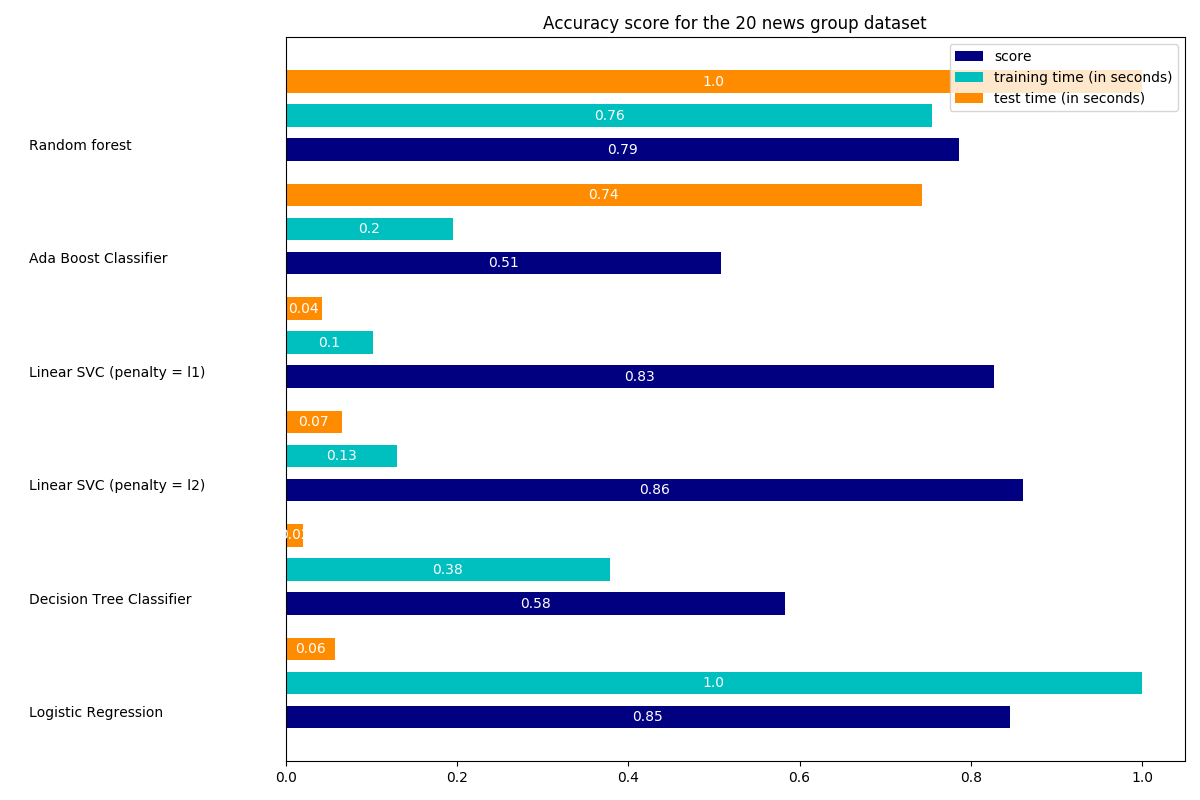
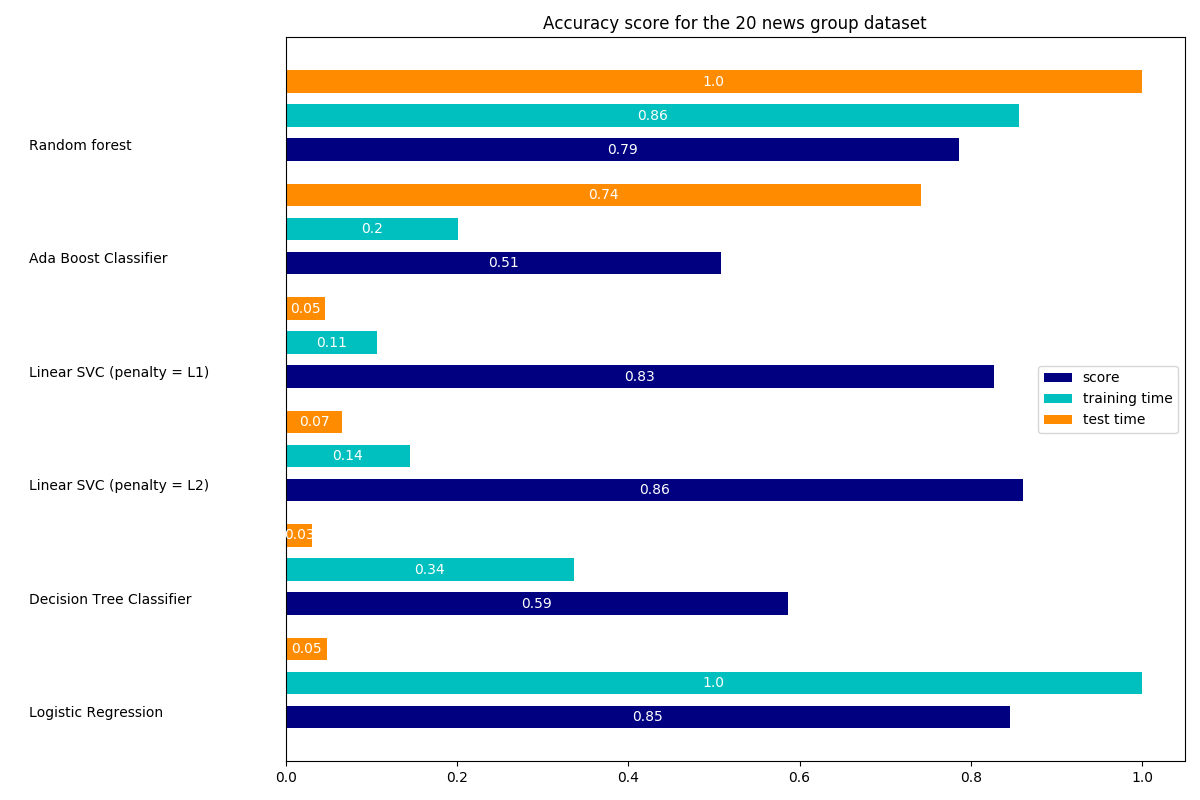
New python args: --just_miniproject_classifiers and --plot_training_and_test_time_together_with_accuracy_score. New plots

diff --git a/code/classification_of_text_documents.py b/code/classification_of_text_documents.py
@@ -73,6 +73,13 @@ op.add_option("--filtered",
               action="store_true",
               help="Remove newsgroup information that is easily overfit: "
                    "headers, signatures, and quoting.")
+op.add_option("--just_miniproject_classifiers",
+              action="store_true", dest="just_miniproject_classifiers",
+              help="Use just the miniproject classifiers (1. LogisticRegression, 2. DecisionTreeClassifier, 3. LinearSVC (L1), 4. LinearSVC (L2), 5. AdaBoostClassifier, 6. RandomForestClassifier)")
+
+op.add_option("--plot_training_and_test_time_together_with_accuracy_score",
+              action="store_true", dest="plot_training_and_test_time_together_with_accuracy_score",
+              help="Plot training time and test time together with accuracy score")
 
 
 def is_interactive():
@@ -249,58 +256,59 @@ def benchmark(clf, classifier_name):
 
 
 results = []
-for clf, classifier_name in (
-        # (RidgeClassifier(tol=1e-2, solver="sag"), "Ridge Classifier"),
-        # (Perceptron(max_iter=50), "Perceptron"),
-        # (PassiveAggressiveClassifier(max_iter=50), "Passive-Aggressive"),
-        # (KNeighborsClassifier(n_neighbors=10), "kNN"),
-        (LogisticRegression(), "Logistic Regression"),
-        (DecisionTreeClassifier(), "Decision Tree Classifier"),
-        (LinearSVC(penalty="l2", dual=False, tol=1e-3), "Linear SVC (penalty = l2)"),
-        (LinearSVC(penalty="l1", dual=False, tol=1e-3), "Linear SVC (penalty = l1)"),
-        (AdaBoostClassifier(), "Ada Boost Classifier"),
-        (RandomForestClassifier(), "Random forest")):
+if opts.just_miniproject_classifiers:
+    for clf, classifier_name in (
+            (LogisticRegression(), "Logistic Regression"),
+            (DecisionTreeClassifier(), "Decision Tree Classifier"),
+            (LinearSVC(penalty="l2", dual=False, tol=1e-3), "Linear SVC (penalty = L2)"),
+            (LinearSVC(penalty="l1", dual=False, tol=1e-3), "Linear SVC (penalty = L1)"),
+            (AdaBoostClassifier(), "Ada Boost Classifier"),
+            (RandomForestClassifier(), "Random forest")):
+        print('=' * 80)
+        print(classifier_name)
+        results.append(benchmark(clf, classifier_name))
+else:
+    for clf, classifier_name in (
+            (RidgeClassifier(tol=1e-2, solver="sag"), "Ridge Classifier"),
+            (Perceptron(max_iter=50), "Perceptron"),
+            (PassiveAggressiveClassifier(max_iter=50), "Passive-Aggressive"),
+            (KNeighborsClassifier(n_neighbors=10), "kNN"),
+            (LogisticRegression(), "Logistic Regression"),
+            (DecisionTreeClassifier(), "Decision Tree Classifier"),
+            (LinearSVC(penalty="l2", dual=False, tol=1e-3), "Linear SVC (penalty = L2)"),
+            (LinearSVC(penalty="l1", dual=False, tol=1e-3), "Linear SVC (penalty = L1)"),
+            (SGDClassifier(alpha=.0001, max_iter=50, penalty="l2"), "SGD Classifier (penalty = L2)"),
+            (SGDClassifier(alpha=.0001, max_iter=50, penalty="l2"), "SGD Classifier (penalty = L1)"),
+            (AdaBoostClassifier(), "Ada Boost Classifier"),
+            (RandomForestClassifier(), "Random forest")):
+        print('=' * 80)
+        print(classifier_name)
+        results.append(benchmark(clf, classifier_name))
+
+    # Train SGD with Elastic Net penalty
     print('=' * 80)
-    print(classifier_name)
-    results.append(benchmark(clf, classifier_name))
+    print("Elastic-Net penalty")
+    results.append(benchmark(SGDClassifier(alpha=.0001, max_iter=50, penalty="elasticnet")))
 
-# for penalty in ["l2", "l1"]:
-#     print('=' * 80)
-#     print("%s penalty" % penalty.upper())
-#     # Train Liblinear model
-#     results.append(benchmark(LinearSVC(penalty=penalty, dual=False,
-#                                        tol=1e-3)))
+    # Train NearestCentroid without threshold
+    print('=' * 80)
+    print("NearestCentroid (aka Rocchio classifier)")
+    results.append(benchmark(NearestCentroid()))
 
-    # # Train SGD model
-    # results.append(benchmark(SGDClassifier(alpha=.0001, max_iter=50,
-    #                                        penalty=penalty)))
+    # Train sparse Naive Bayes classifiers
+    print('=' * 80)
+    print("Naive Bayes")
+    results.append(benchmark(MultinomialNB(alpha=.01)))
+    results.append(benchmark(BernoulliNB(alpha=.01)))
+    results.append(benchmark(ComplementNB(alpha=.1)))
 
-# Train SGD with Elastic Net penalty
-# print('=' * 80)
-# print("Elastic-Net penalty")
-# results.append(benchmark(SGDClassifier(alpha=.0001, max_iter=50,
-#                                        penalty="elasticnet")))
-
-# Train NearestCentroid without threshold
-# print('=' * 80)
-# print("NearestCentroid (aka Rocchio classifier)")
-# results.append(benchmark(NearestCentroid()))
-
-# Train sparse Naive Bayes classifiers
-# print('=' * 80)
-# print("Naive Bayes")
-# results.append(benchmark(MultinomialNB(alpha=.01)))
-# results.append(benchmark(BernoulliNB(alpha=.01)))
-# results.append(benchmark(ComplementNB(alpha=.1)))
-
-print('=' * 80)
-# print("LinearSVC with L1-based feature selection")
-# # The smaller C, the stronger the regularization.
-# # The more regularization, the more sparsity.
-# results.append(benchmark(Pipeline([
-#   ('feature_selection', SelectFromModel(LinearSVC(penalty="l1", dual=False,
-#                                                   tol=1e-3))),
-#   ('classification', LinearSVC(penalty="l2"))])))
+    print('=' * 80)
+    print("LinearSVC with L1-based feature selection")
+    # The smaller C, the stronger the regularization.
+    # The more regularization, the more sparsity.
+    results.append(benchmark(Pipeline([
+      ('feature_selection', SelectFromModel(LinearSVC(penalty="l1", dual=False, tol=1e-3))),
+      ('classification', LinearSVC(penalty="l2"))])))
 
 
 '''
@@ -326,8 +334,9 @@ if opts.filtered:
 else:
     plt.title("Accuracy score for the 20 news group dataset")
 plt.barh(indices, score, .2, label="score", color='navy')
-plt.barh(indices + .3, training_time, .2, label="training time (in seconds)", color='c')
-plt.barh(indices + .6, test_time, .2, label="test time (in seconds)", color='darkorange')
+if opts.plot_training_and_test_time_together_with_accuracy_score:
+    plt.barh(indices + .3, training_time, .2, label="training time", color='c')
+    plt.barh(indices + .6, test_time, .2, label="test time", color='darkorange')
 plt.yticks(())
 plt.legend(loc='best')
 plt.subplots_adjust(left=.25)
